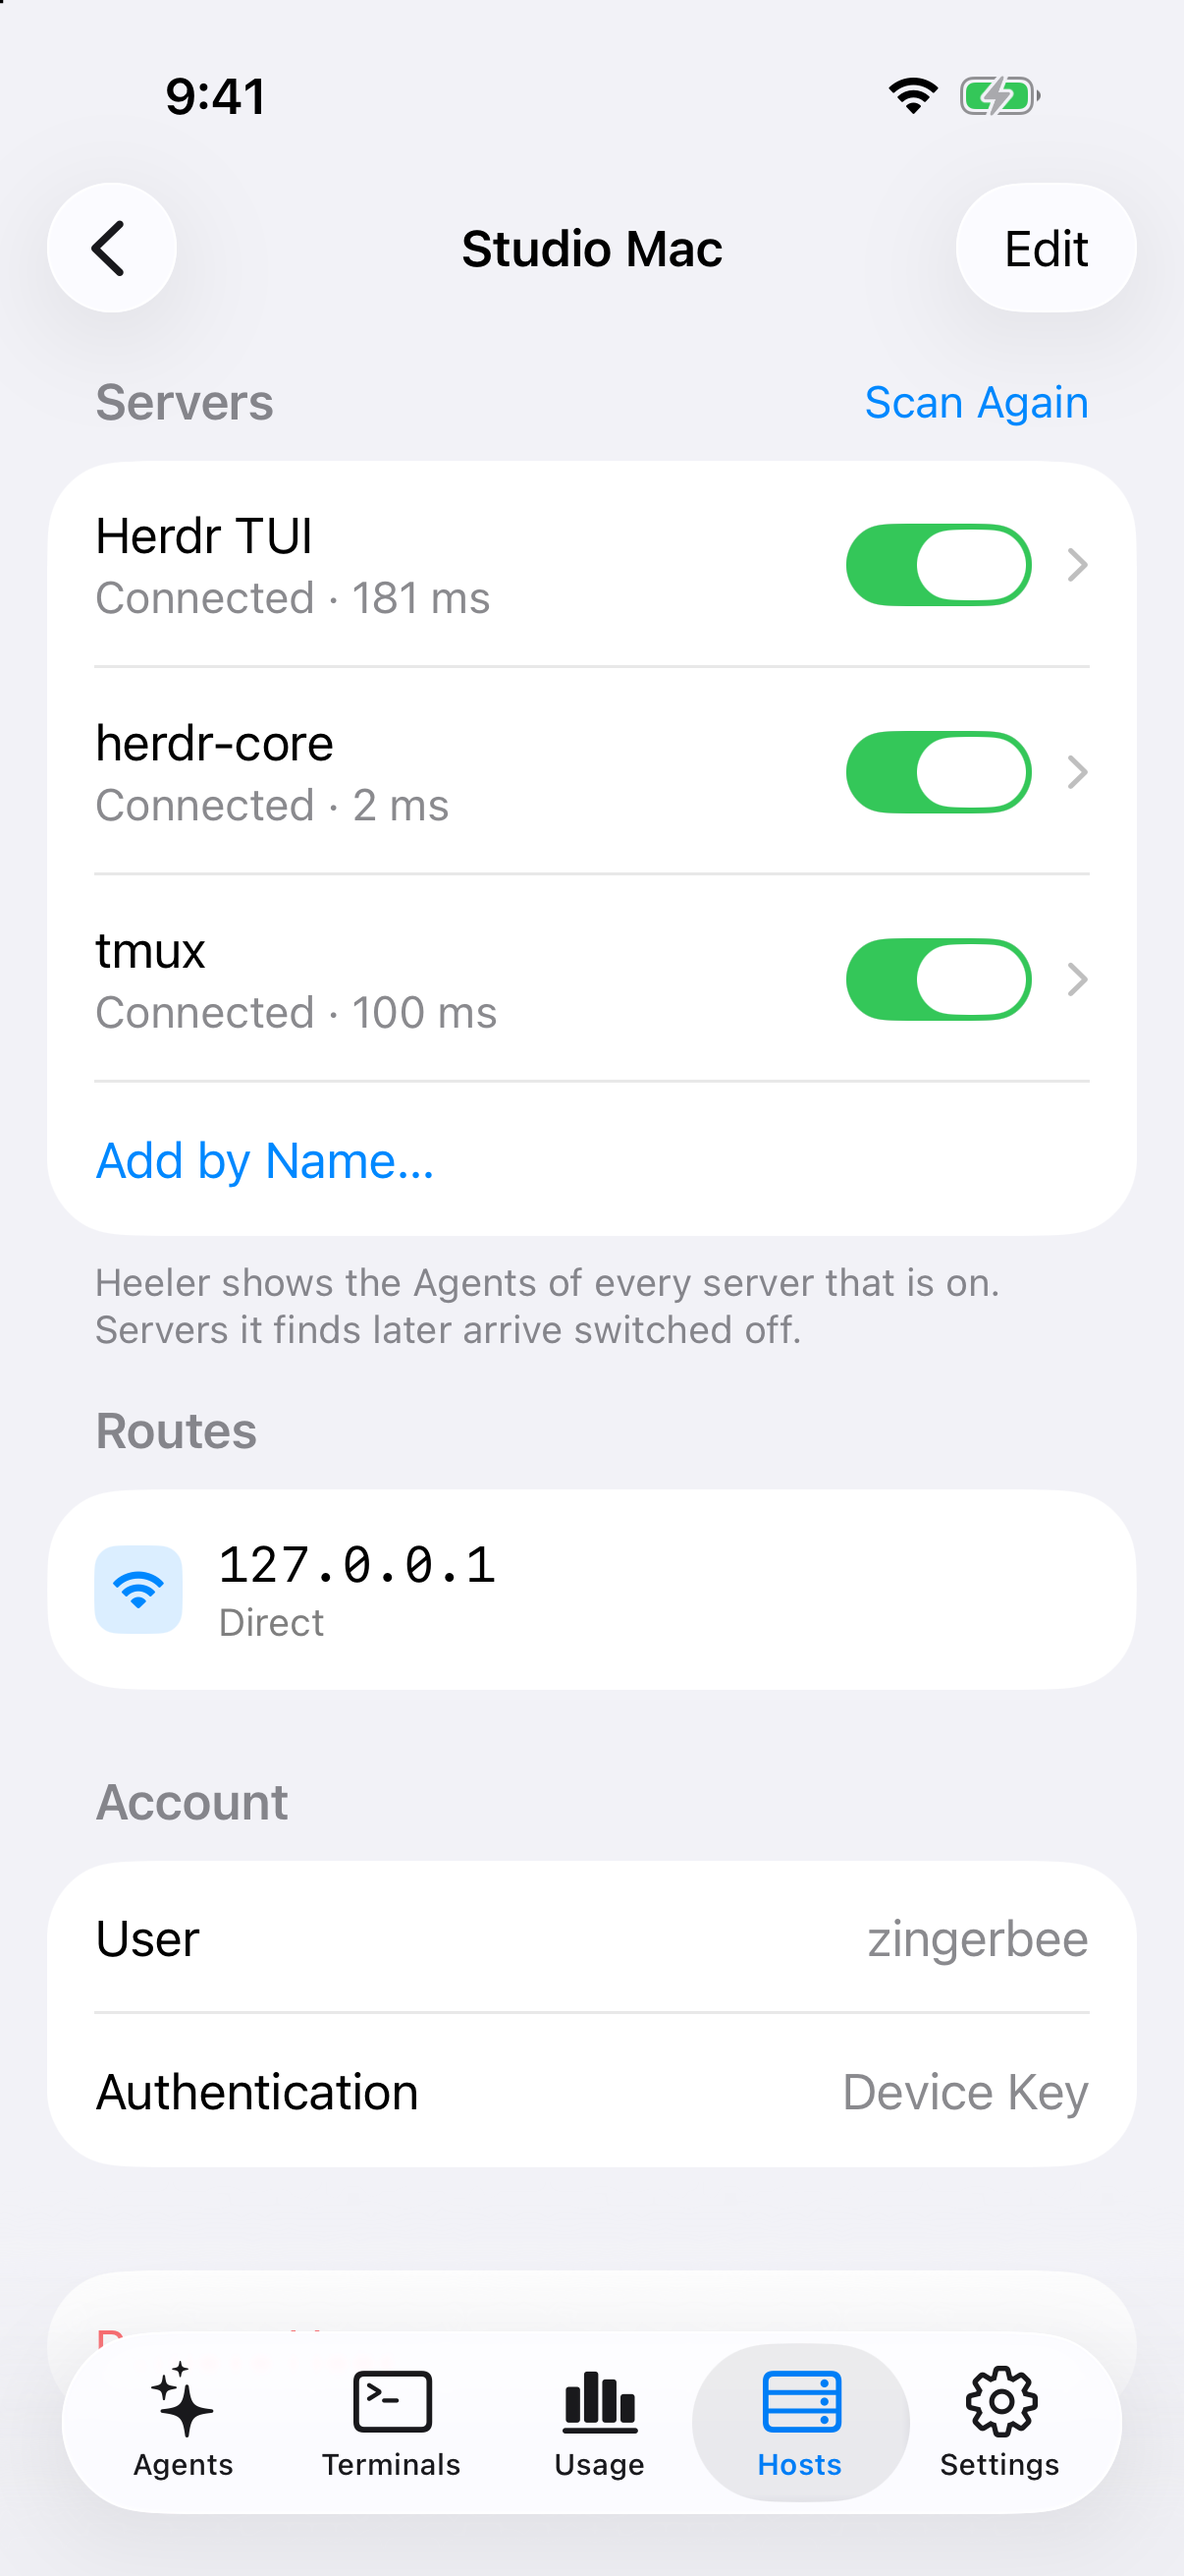
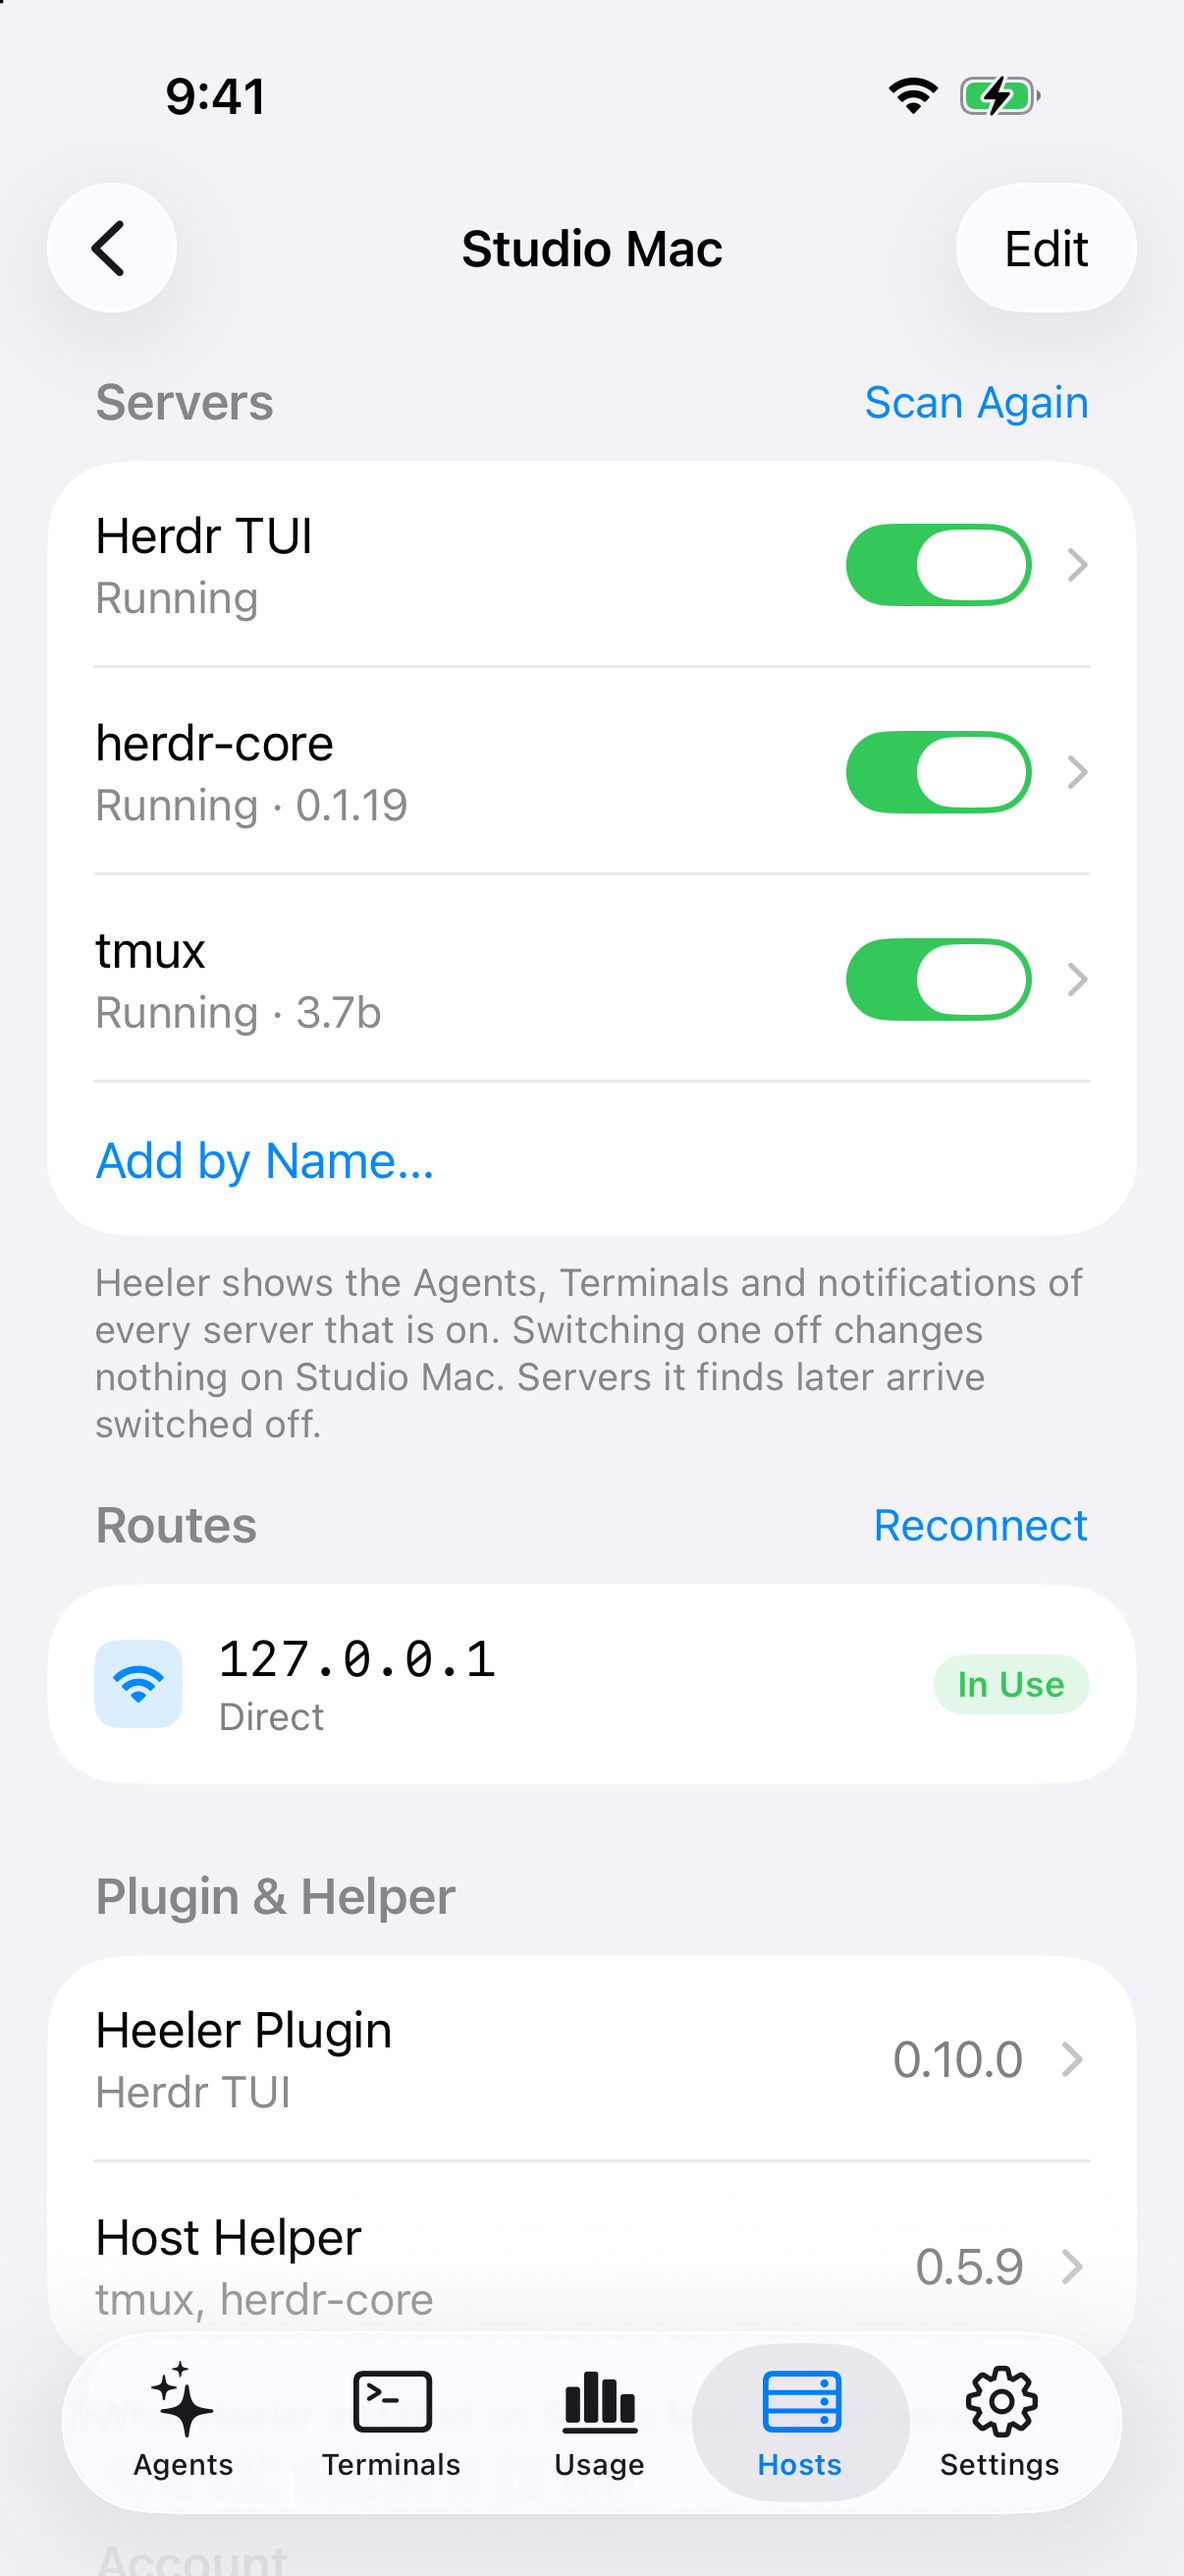
docs(guides): show the host's page as it is now
The Host's page capture predated Routes marking the route in use and
Plugin & Helper, and the herdr-core and tmux guides still placed the
connection on a Server's page. The routes guide gains what to do when
a route waits on a key nobody has confirmed.

diff --git a/docs/guides/tmux.md b/docs/guides/tmux.md
@@ -37,11 +37,11 @@ Heeler looks once through your login shell without starting anything and lists w
 | tmux alongside Herdr TUI or herdr-core | Check each one you want in Heeler. They are all Servers of this one Host. |
 | No running server | Add the Host anyway. Start tmux, open the Host, tap **Scan Again**, and turn on **tmux**. |
 
-Each Server has a switch on the Host's page. Tap a Server that is on to open its own page, with its connection, checks and Host Helper. To turn on a socket before its server runs, tap **Add by Name…** on the Host's page, choose **tmux**, type the `-L <name>` socket name (blank for `default`), and tap **Turn On**. Custom socket file paths (`tmux -S <path>`) cannot be typed.
+Each Server has a switch on the Host's page. Tap a Server that is on to open its own page, with its checks and Host Helper. The connection is the Host's, under **Routes**. To turn on a socket before its server runs, tap **Add by Name…** on the Host's page, choose **tmux**, type the `-L <name>` socket name (blank for `default`), and tap **Turn On**. Custom socket file paths (`tmux -S <path>`) cannot be typed.
 
 | The Host's page | Add by Name |
 | --- | --- |
-| <a href="images/hosts/host-page.png"><img src="images/hosts/host-page.png" width="260" alt="Host page for Studio Mac showing Herdr TUI, herdr-core, and tmux with their switches on, Scan Again, Add by Name…, Routes, and Account"></a> | <a href="images/hosts/add-by-name.png"><img src="images/hosts/add-by-name.png" width="260" alt="Add by Name sheet with a Kind picker, a name field, and Turn On"></a> |
+| <a href="images/hosts/host-page.png"><img src="images/hosts/host-page.png" width="260" alt="Host page for Studio Mac showing Herdr TUI, herdr-core, and tmux running with their switches on, Scan Again, Add by Name…, Routes with the route in use, and Plugin & Helper"></a> | <a href="images/hosts/add-by-name.png"><img src="images/hosts/add-by-name.png" width="260" alt="Add by Name sheet with a Kind picker, a name field, and Turn On"></a> |
 
 **It worked if** the Host's row shows a green **tmux** tag, the Host's page lists tmux as **Running** with its version, and the Server's page shows **tmux server running** passing.
 

diff --git a/docs/guides/herdr-core.md b/docs/guides/herdr-core.md
@@ -36,11 +36,11 @@ Heeler looks once without starting anything and lists what the machine runs:
 | No herdr-core | Add the Host anyway. Start the core, open the Host, tap **Scan Again**, and turn on **herdr-core**. |
 | A core started with `HC_SESSION=<name>` | Add the Host, open it, tap **Add by Name…**, choose **herdr-core**, type the name, and tap **Turn On**. |
 
-Each Server has a switch on the Host's page. Tap a Server that is on to open its own page, with its connection, checks and Host Helper.
+Each Server has a switch on the Host's page. Tap a Server that is on to open its own page, with its checks and Host Helper. The connection is the Host's, under **Routes**.
 
 | The Host's page | Add by Name |
 | --- | --- |
-| <a href="images/hosts/host-page.png"><img src="images/hosts/host-page.png" width="260" alt="Host page for Studio Mac showing Herdr TUI, herdr-core, and tmux with their switches on, Scan Again, Add by Name…, Routes, and Account"></a> | <a href="images/hosts/add-by-name.png"><img src="images/hosts/add-by-name.png" width="260" alt="Add by Name sheet with a Kind picker, a name field, and Turn On"></a> |
+| <a href="images/hosts/host-page.png"><img src="images/hosts/host-page.png" width="260" alt="Host page for Studio Mac showing Herdr TUI, herdr-core, and tmux running with their switches on, Scan Again, Add by Name…, Routes with the route in use, and Plugin & Helper"></a> | <a href="images/hosts/add-by-name.png"><img src="images/hosts/add-by-name.png" width="260" alt="Add by Name sheet with a Kind picker, a name field, and Turn On"></a> |
 
 **It worked if** the Host's row shows a green **herdr-core** tag, the Host's page lists herdr-core as **Running** with its version, and the Server's page shows **herdr-core running** passing.
 

diff --git a/docs/guides/host-routes.md b/docs/guides/host-routes.md
@@ -50,6 +50,7 @@ Heeler confirms a Host's key once, and every route has to reach the machine with
 ## If a route always fails
 
 - Read its reason under **Routes** on the Host's page.
+- **The Jump Host's key is not trusted** or **The host key is not trusted** means nobody has confirmed that key on this iPhone or iPad yet. The Host's page asks you to confirm its fingerprint, and reconnects once you trust it. If you dismissed the question, tap **Scan Again** to see it again.
 - For an overlay network route, check that the network shows as connected in **Settings > Overlay Networks** and that the Mac is online in it.
 - For a Jump Host route, check that you can reach the Jump Host and that it accepts the same Device Key, RSA Key, or password as the Host. See [the Jump Host guide](vps-jump-host-setup.md).
 - For a LAN address, it only answers on that network. Away from home it fails, and another route connects instead.
